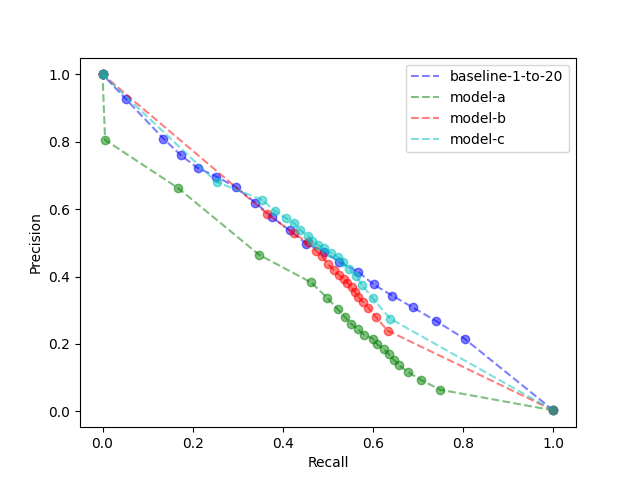
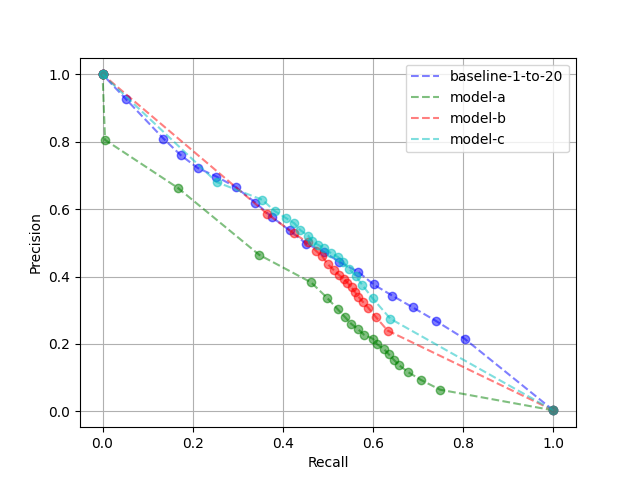
docs(thesis): improved exp2 and added gridlines to prec-recall plots

diff --git a/Thesis/main.tex b/Thesis/main.tex
@@ -23,7 +23,7 @@
 
 \newcommand{\coderepo}{\href{https://github.com/LasseWolter/laughter-detection-icsi}{codebase}}
 
-\newcommand{\confmatrixcaption}{Each row shows the percentage of laughter segments classified as a certain subclass for a given threshold (see \autoref{sec:conf-matrix}).}
+\newcommand{\confmatrixcaption}{Each row shows the percentage of laughter segments classified as a certain subclass for a given threshold (see \autoref{sec:conf-matrix}). }
 
 \begin{document}
 \begin{preliminary}
@@ -274,7 +274,7 @@ To conclude, for our use case reporting precision and recall across a range of t
 A confusion matrix is a good way to identify misclassifications. In a multi-class problem, it shows the true label on one axis and the predicted label on the other. It can either show the actual counts of predictions or normalised values between 0 and 1. \autoref{fig:example-conf-matrix} shows a normalised confusion matrix for a classification problem with three classes.
 For laughter recognition we only have two classes. Instead of plotting a 2x2 confusion matrix, evaluations in this thesis use a different approach.
 Since non-laughter segments can be split into subclasses (as we will see in \autoref{table:segment-types}), we plot the percentage of misclassified laughter samples for each of these classes. 
-Each row in \autoref{fig:example-conf-matrix} represents the model outputs for a certain threshold and shows the percentage of laughter samples classified as laughter, speech, silence and noise, respectively. Thus, the sum of all values in a single row is one. 
+Each row in \autoref{fig:example-conf-matrix} represents the model outputs for a certain threshold and shows the percentage of true laughter samples classified as laughter, speech, silence and noise, respectively. Thus, the sum of all values in a single row is one and the the column of laughter is the precision of the model at this threshold.
 Note that we cannot get the same diagram for non-laughter segments because the model is a binary classifier. It only predicts laughter and non-laughter but none of the subclasses. 
 
 
@@ -634,7 +634,7 @@ The structure of training data was investigated in two dimensions:
 All evaluations in this section are done on the development set of the ICSI corpus as defined in \autoref{sec:preprocessing}.
 
 \section{Experiment 1 - Class Balance} \label{sec:exp-1}
-In the first set of experiments evaluates different ratios between laughter and non-laughter segments in the training data.
+The first set of experiments evaluates different ratios between laughter and non-laughter segments in the training data.
 Three different ratios between laughter and non-laughter segments are compared with the pre-trained model by \citet{gillick2021robust}: 1-to-1, 1-to-10 and 1-to-20.
 The sample duration is one second, as also used by \citet{gillick2021robust}. The feature shape differs from the pre-trained model. \citet{gillick2021robust} use mel spectrograms of shape 44x128 whereas the newly trained models uses a shape of 100x44.
 Further, neither subsampling nor feature augmentation was applied during training which helped \citet{gillick2021robust} to achieve minor performance improvements.
@@ -647,12 +647,12 @@ The non-laughter segments are sampled at random from all non-laughter segments, 
 % The non-laughter segments were selected on a random basis from the remaining audio tracks after subtracting the laughter and invalid regions (\autoref{table:segment-types}). 
 
 \subsection{Method}
-To select non-laughter segments across a variety of meetings, \verb|create_data_df| uses the following selection process.
+To select non-laughter segments across a variety of meetings, \verb|create_data_df| (\autoref{fig:data-pipeline}) uses the following selection process.
 For each laughter segment, a channel within the same meeting is selected at random.
 A non-laughter segment of the same duration as the laughter segment is sampled from this channel.
 If the laughter segment is longer than one second, both laughter and non-laughter segments are truncated to a random one-second region of their segment. 
 If the segment is shorter than one second, it is stored unmodified and padded to one second length during feature computation.
-All these segments are stored in a table as explained in \autoref{sec:ml-data-pipeline}.
+All these segments are stored in a dataframe as explained in \autoref{sec:ml-data-pipeline}.
 In contrast to random sampling across all meeting, this approach guarantees that the training data holds non-laughter segments from all meetings containing laughter. 
 
 \subsection{Results} \label{sec:exp1-res}
@@ -664,16 +664,10 @@ In contrast to random sampling across all meeting, this approach guarantees that
     \label{fig:prec-recall-rand}
 \end{figure}
 
-\autoref{fig:prec-recall-rand} compares the performance of the newly trained models with the baseline, the pre-trained model by \citet{gillick2021robust} evaluated on the development set.
-The data points displayed in \autoref{fig:prec-recall-rand} are precision and recall for 21 evenly spaced thresholds from 0 to 1.
+\autoref{fig:prec-recall-rand} compares the performance of the newly trained models with the baseline given by the pre-trained model by \citet{gillick2021robust} evaluated on the development set.
+The data points displayed in \autoref{fig:prec-recall-rand} are precision and recall for 21 evenly spaced thresholds from 0 to 1. For the baseline, there are only four data points, because the data is taken from the evaluation presented in \autoref{cha:model-evaluation}.
 All models trained on the ICSI corpus outperform the baseline.
-Overall there is little differences between the three new models, but for $mathtt{recall} > 0.3$ the 1-to-20 model performs best. 
-
-\autoref{fig:conf-matrix-rand} shows a confusion matrix for different thresholds to deepen the understanding of the misclassified laughter samples. Note that the baseline is not same confusion matrix as \autoref{fig:initial-conf-matrix} because this time we only evaluate on the development set.
-For all newly trained models most misclassifications are in silence regions, regions that have no transcription. 
-In contrast, the baseline classifies more laughter samples as speech than silence. Generally, we note that there is only a small amount of samples located in noise regions, the baseline has almost none.
-The 1-to-20 model has the least speech samples across all thresholds, except for threshold 0.8 where the baseline has 100\% precision, i.e. all predicted laughter samples are indeed laughter samples.
-
+Overall there is little differences between the three new models, but for $\mathtt{recall} > 0.3$ the 1-to-20 model performs best. 
 
 \begin{figure}[h!]
 \begin{tabular}{cc}
@@ -690,22 +684,30 @@ The 1-to-20 model has the least speech samples across all thresholds, except for
 \label{fig:conf-matrix-rand}
 \end{figure}
 
+\autoref{fig:conf-matrix-rand} shows a confusion matrices for different thresholds to deepen the understanding of the misclassified laughter samples. Note that the baseline is not same confusion matrix as \autoref{fig:initial-conf-matrix} because this time we only evaluate on the development set.
+For all newly trained models most misclassifications are in silence regions, regions that have no transcription. 
+In contrast, the baseline classifies more laughter samples as speech than silence. Generally, we note that there is only a small amount of samples located in noise regions, the baseline has almost none.
+The 1-to-20 model has the least speech samples across all thresholds, except for threshold 0.8 where the baseline has 100\% precision, i.e. all predicted laughter samples are indeed laughter samples.
+
+
+
 \subsection{Analysis} 
 The purpose of the experiment was to investigate different class balances. 
-The precision-recall curve (\autoref{fig:prec-recall-struc}) suggests that the 1-to-20 ratio gives the best performance, even though put into context, the performance is still poor. 
+The precision-recall curve (\autoref{fig:prec-recall-struc}) suggests that the 1-to-20 ratio gives the best performance. Nevertheless, for integrating such a model in a video call system, the performance is still poor. 
 All three models trained on the ICSI perform significantly better than the baseline from \citet{gillick2021robust} which was trained on the Switchboard dataset (as in \autoref{cha:model-evaluation}).
 This behaviour is expected and aligns with findings from \citet{gillick2021robust} (\autoref{fig:gillick-results}). A model evaluated on the same dataset it was trained on performs better than a model trained on a different dataset. 
 
 Another insight is deduced from the confusion matrices. Whereas the baseline has more misclassified speech than silence segments, the three newly trained models misclassify speech less often. 
-In contrast, the newly trained models often misclassify silence regions, regions with no transcription, as laughter.
+In contrast, the newly trained models often misclassify laughter as silence, regions with no transcription.
 Evaluating the pre-trained model by \citet{gillick2021robust} on the whole ICSI corpus (\autoref{cha:model-evaluation}) showed a non negligible amount of misclassifications in silence regions. 
-These newly trained models make this problem even more apparent and raise the question, why the model is not able to confidently separate laughter from silence.
+These newly trained models make this problem even more apparent and raise the question, why the model is not able to confidently separate laughter from silence. \autoref{sec:silence-regions} will investigate this further.
+
 Lastly, the 100\% precision of the pre-trained model for a threshold of 0.8 should be seen in context. A precision of 100\% alone does not mean a good model performance as described in \autoref{sec:acc-prec-rec}. Looking at \autoref{fig:prec-recall-rand}, this threshold corresponds to the light blue data point in the top left corner. This shows that this threshold is close to one extreme of the precision recall curve where precision is 100\% and recall is 0\%. Future work could investigate why the pre-trained model already reaches this extreme at a threshold of 0.8, but compared to other future tasks I consider this as less important.
 
 \section{Experiment 2 - Non-laughter Diversity} \label{sec:exp2}
-The second set of experiments investigates the impact of the different types of non-laughter on the model performance. 
-Thus, the ratio of non-laughter segments was fixed to 1-to-20. The ratio 1-to-20 was chosen to maximise the amount of non-laughter segments and be able to use one of models from \autoref{sec:exp-1} as a baseline.
-The segment selection and feature computation process was similar, but non-laughter segments were not chosen at random. A fixed percentage of non-laughter segments was assigned to each of the three types of non-laughter: speech, noise and silence.
+The second set of experiments investigates the impact of the amount of the different types of non-laughter on the model performance. 
+The ratio of non-laughter segments is fixed to 1-to-20. The ratio 1-to-20 is chosen to maximise the amount of non-laughter segments and be able to use one of models from \autoref{sec:exp-1} as a baseline.
+The segment selection and feature computation process is similar to \autoref{sec:exp-1}, but non-laughter segments were not chosen at random. A fixed percentage of non-laughter segments was assigned to each of the three types of non-laughter: speech, noise and silence.
 \autoref{tab:exp-2-subclass-split} shows the different percentages tried.
 
 \begin{table}[h!]
@@ -732,37 +734,40 @@ The segment selection and feature computation process was similar, but non-laugh
 \end{figure}
 
 
+
+
+Looking at the precision-recall curve in \autoref{fig:prec-recall-struc}, we see that \texttt{model-a} performs worse than the baseline across all thresholds. \texttt{model-c} performs similar to the baseline with worse performance in the area of $\mathtt{recall} > 0.6$. \texttt{model-b} performs similar to \texttt{model-c}, but slightly worse.
+We note that the majority of data points for \texttt{model-b} and \texttt{model-c} are condensed in the area of $0.3 < \mathtt{recall} < 0.7$ and $0.2 < \mathtt{precision} < 0.65$. For \texttt{model-c} most data points lie in the area of $0.4 < \mathtt{recall} < 0.75$ and $0.1 < \mathtt{precision} < 0.4$.
+
 \begin{figure}[h!]
 \begin{tabular}{cc}
 \hspace*{-2cm}                                                           
-\subfloat[model-a]{\includegraphics[width = 3.5in]{imgs/conf_matrix/exp2-structured/model-a.png}} &
+\subfloat[model-a: 70sp, 10sil, 20noi]{\includegraphics[width = 3.5in]{imgs/conf_matrix/exp2-structured/model-a.png}} &
 \hspace*{-1cm}                                                           
-\subfloat[model-b]{\includegraphics[width = 3.5in]{imgs/conf_matrix/exp2-structured/model-b.png}}\\ 
+\subfloat[model-b: 10sp, 10sil, 20noi]{\includegraphics[width = 3.5in]{imgs/conf_matrix/exp2-structured/model-b.png}}\\ 
 \hspace*{-2cm}                                                           
-\subfloat[model-c]{\includegraphics[width = 3.5in]{imgs/conf_matrix/exp2-structured/model-c.png}} &
+\subfloat[model-c: 20sp, 70sil, 10noi]{\includegraphics[width = 3.5in]{imgs/conf_matrix/exp2-structured/model-c.png}} &
 \hspace*{-1cm}                                                           
-\subfloat[baseline]{\includegraphics[width = 3.5in]{imgs/conf_matrix/exp2-structured/1_to_20_random.png}}\\ 
+\subfloat[baseline: 1-to-20 model from \autoref{sec:exp-1}]{\includegraphics[width = 3.5in]{imgs/conf_matrix/exp2-structured/1_to_20_random.png}}\\ 
 \end{tabular}
-\caption{Confusion matrices for different splits of non-laughter types as shown in \autoref{tab:exp-2-subclass-split}. \confmatrixcaption}
+\caption{Confusion matrices for different splits of non-laughter types as shown in \autoref{tab:exp-2-subclass-split}. \confmatrixcaption Splits shown as percentages, where sp=speech, sil=silence, noi=noise.}
 \label{fig:conf-matrix-struc}
 \end{figure}
 
-Looking at the precision-recall curve in \autoref{fig:prec-recall-struc}, we see that \texttt{model-a} performs worse than the baseline. \texttt{model-c} performs similar to the baseline with worse performance in the area of $recall > 60\%$. \texttt{model-b} performs slightly better for the area $0.3<recall<0.6$, but worse for recalls higher than this.
-We note that the majority of data points for \texttt{model-b} and \texttt{model-c} are condensed in the area of $0.3 < recall < 0.7$ and $0.1 < precision < 0.6$.
-
 \autoref{fig:conf-matrix-struc} compares the confusion matrices. The general structure is similar to the matrices in \autoref{fig:conf-matrix-rand}.
 Most of the misclassifications are silence segments. 
-The proximity of adjacent data points visible in the precision-recall curve becomes evident in the matrices as well. Laughter percentages for the displayed thresholds are low. 
-Further, the bright colours in the speech column matrix for \texttt{model-a} show that it retrieves a lot of speech samples. 
-Lastly, we can see that \texttt{model-c} has slightly more speech misclassifications than the other three models.
+The small number of data points in higher precision regions of the precision-recall curve (\autoref{fig:prec-recall-struc}) becomes evident in the matrices as well. As described in \autoref{sec:conf-matrix}, the laughter percentage in the confusion matrix is equal to the precision. Thus, of the newly trained models for a threshold of 0.8 is low.
+Lastly, we can see that \texttt{model-c} classifies more laughter segments as silence than as laughter.
 
 
 \subsection{Analysis}
-The goal of these experiments was to analyse the impact of diversity within the non-laughter segments. Using only a few silence segments decreases model performance significantly.
-The impact of slightly changing amounts of noise, speech and laughter but keeping the number of silence segments constant yielded a small performance impact. 
-Thus, only considering this set of experiments, changing the number of silence segments in the non-laughter class has the most impact. 
-This is not a definitive conclusion but merely a result of this small set of experiments. 
-The confusion matrices in \autoref{fig:conf-matrix-struc} do not add much to the insights from experiment 1 (\autoref{sec:exp-1}). The higher number of misclassified speech segments in \texttt{model-c} should be noted but cannot be put into context with other observations.
+The goal of these experiments was to analyse the impact of diversity within the non-laughter segments. As shown by \texttt{model-a}, using a small amount silence segments decreases model performance significantly. It causes the model to classify more silence segments as laughter than true laughter segments. This is a major flaw in this model and suggests that this subset of the ICSI corpus is not representative of its entirety. 
+
+Keeping the number of silence segments constant and slightly increasing the number of speech segments yielded a small performance impact, as shown by \texttt{model-b} and \texttt{model-c}.
+
+Thus, for this experiment, changing the number of silence segments in the non-laughter class has the biggest discriminative power. This is surprising, because intuitively one expects that silence should not have a lot of variety and thus, increasing the number of training samples should not have a big impact. Possible reasons for this are investigated in the following section.
+
+Lastly, the low precision values for a threshold of 0.8 compared to the baseline, do not mean that the new models in this experiments perform worse. As mentioned before, thresholds are variable and we should always consider the whole precision-recall curve. Nevertheless, it is interesting to note that changing the type of non-laughter segments seems to impact the way thresholds partition the model performance. This fact should be investigated further by future work.
 
 \section{Investigating Non-transcribed Regions in the ICSI Corpus} \label{sec:silence-regions}
 Both, the initial evaluation (\autoref{cha:model-evaluation}) and the experiments (\autoref{cha:experiments}) raised the question, why the model is not able to separate laughter from silence segments in the corpus. Thus, I decided to manually analyse some audio tracks for abnormalities. This is a crude analysis to come up with a hypothesis for the large amount of retrieved silence segments.
